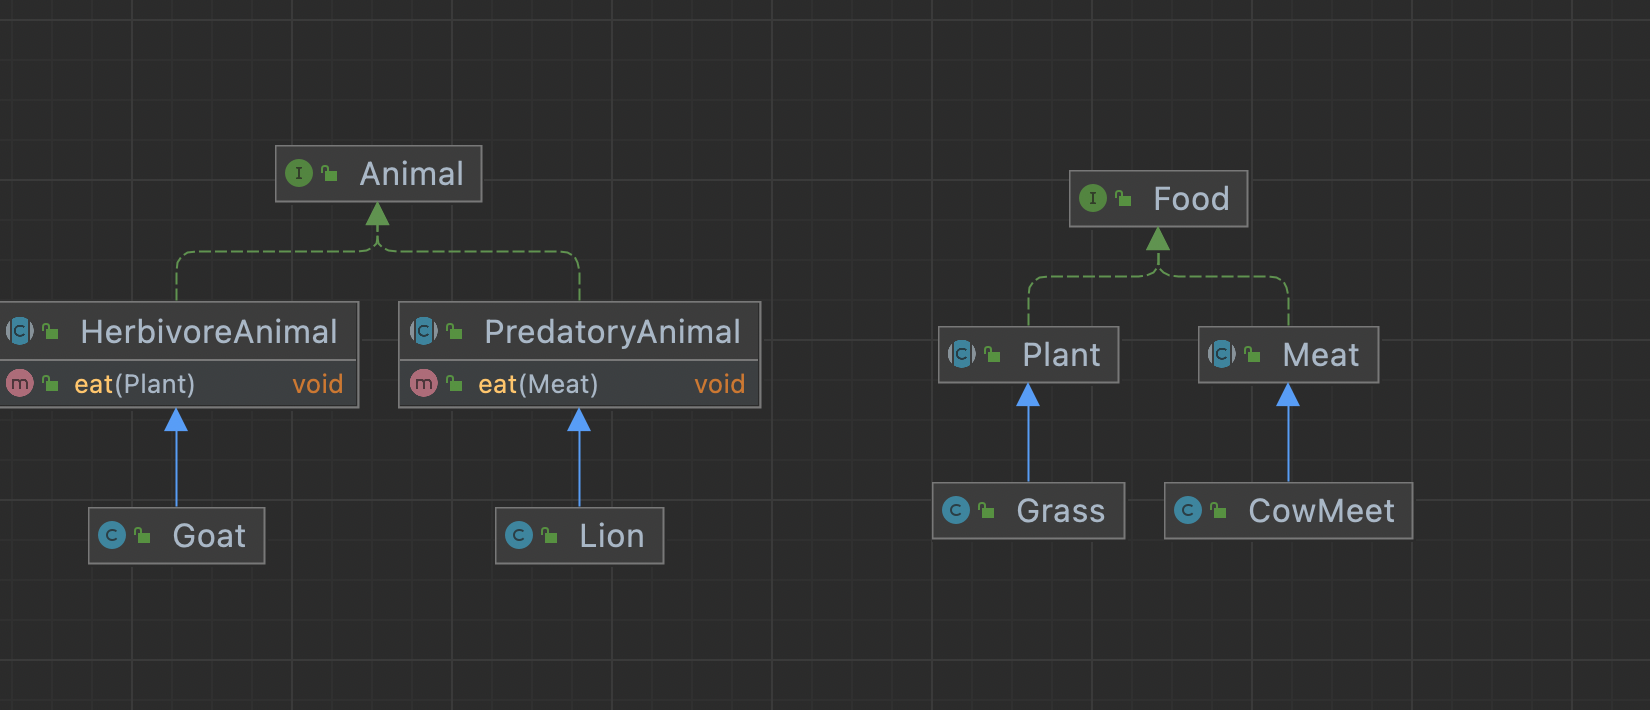
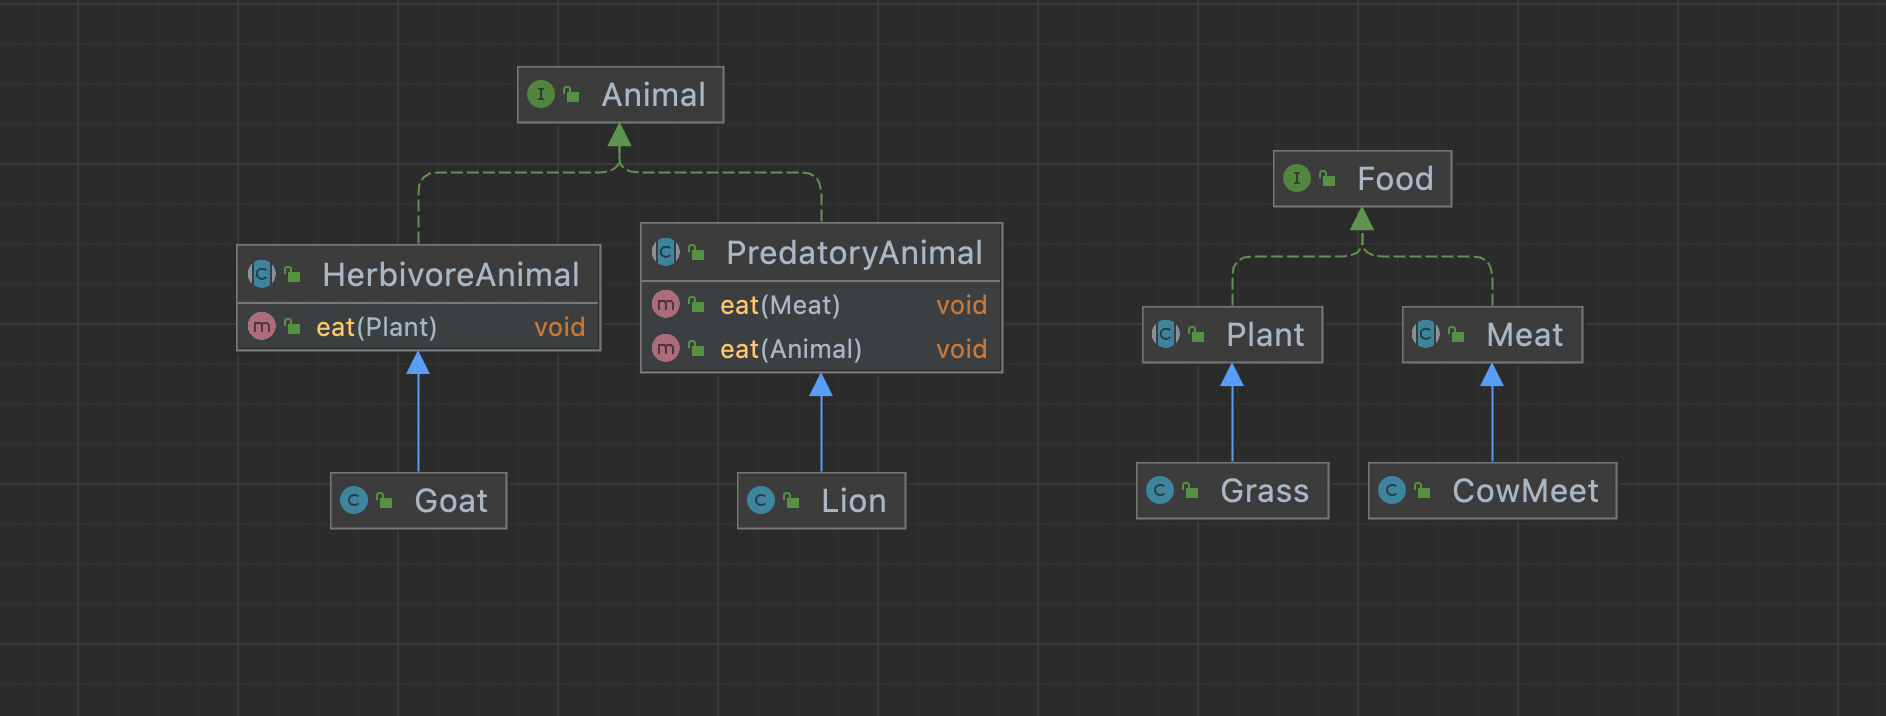
Updated predatory animal type to eat other animals

diff --git a/src/main/java/com/backendless/batsunov/animal/PredatoryAnimal.java b/src/main/java/com/backendless/batsunov/animal/PredatoryAnimal.java
@@ -3,7 +3,15 @@ package com.backendless.batsunov.animal;
 import com.backendless.batsunov.food.Meat;
 
 public abstract class PredatoryAnimal implements Animal {
-    public void eat(Meat food){
+    public void eat(Meat food) {
         System.out.println("Eating meat " + food);
+    }
+
+    public void eat(Animal animal) throws IllegalArgumentException {
+        if (animal == this) {
+            throw new IllegalArgumentException("Can't eat itself");
+        }
+
+        System.out.println("Eating animal " + animal);
     }
 }
